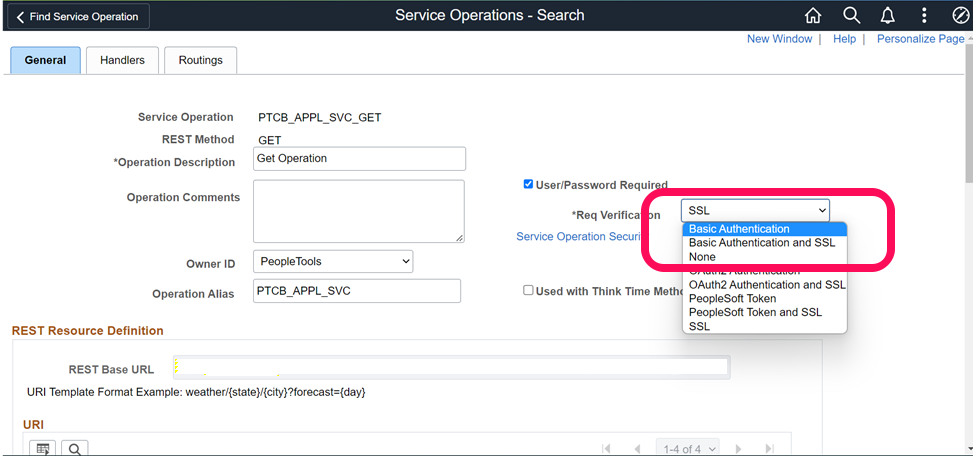
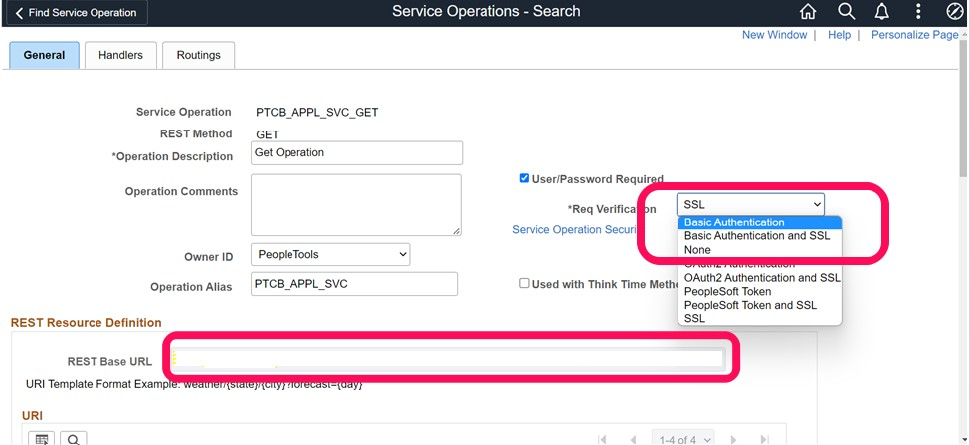
11263 - PeopleSoft PICASO Chatbot Integration with Oracle Digital Assistant (#136)
* QA updates

* fixes

---------

diff --git a/peoplesoft-oda/1setup-oda/setup-oda.md b/peoplesoft-oda/1setup-oda/setup-oda.md
@@ -80,20 +80,20 @@ In this part of the lab, we begin by deploying PeopleSoft PICASO from the Oracle
 
 
 
-## Task 3:  Clone and create a new digital assistant
+## Task 3:  Extend and create a new digital assistant
 
-In this lab, we start by cloning the PICASO digital assistant from PeopleSoft and building a new digital assistant specifically for this task.
+In this lab, we start by extending the existing PICASO digital assistant and building a new digital assistant specifically for this task.
 
-1.  From the previous task, once the PICASO digital assistant pull request is completed, navigate to the digital assistants' tab under development and click on the clone to begin the cloning process.
+1.  From the previous task, once the PICASO digital assistant pull request is completed, navigate to the digital assistants' tab under development and click on the extend to begin the cloning process.
 
-  ![Select the three dots and begin the cloning process](./images/oda-assistant-clone.png " ")
+  ![Select the three dots and begin the extend process](./images/oda-assistant-extend.png " ")
 
-    From the dialog box, click clone to begin the process
+    From the dialog box, click extend to begin the process
 
-  ![Cloning processes started](./images/oda-assistant-clone-start.png " ")
+  ![Extend processes started](./images/oda-assistant-extend-start.png " ")
 
-    PeopleSoft PICASO clone is created
-  ![Cloning processes started](./images/oda-assistant-clone-complete.png " ")
+    PeopleSoft PICASO digital assistant is created
+  ![Extend processes started](./images/oda-assistant-extend-complete.png " ")
 
 ## Task 4:  Create the channel for the skills
 
@@ -131,6 +131,6 @@ You may now **proceed to the next lab.**
 ## Acknowledgements
 * **Authors** - Deepak Kumar M, Principal Cloud Architect
 * **Contributors** - Deepak Kumar M, Principal Cloud Architect
-* **Last Updated By/Date** - Deepak Kumar M, Principal Cloud Architect, October 2022
+* **Last Updated By/Date** - Deepak Kumar M, Principal Cloud Architect, March 2023
 
 

diff --git a/peoplesoft-oda/2configure-psft/configure-psft.md b/peoplesoft-oda/2configure-psft/configure-psft.md
@@ -49,7 +49,17 @@ To configure PeopleSoft with Oracle Digital Assistant, you will:
    On the Roles tab, Update it with below roles and click save
   ![Add the roles as per the screen ](./images/update-roles.png " ")
 
+   For PeopleSoft Financial environment, add the below roles to the VP1 user or user working on the chatbot setup.
 
+   EOCB Client User
+
+   EXCB\_EXPENSE\_INQ
+
+   PTCB\_USER
+
+   PeopleSoft User  
+   
+   ePro Requester Inquiry Bot
 ## Task 2: Uncheck Restricted Services
 
 1. Login to PeopleSoft as an admin user and click on the navigation at the top right corner and then go to PeopleTools >> Integration Broker >> Service Configuration. 
@@ -72,13 +82,15 @@ To configure PeopleSoft with Oracle Digital Assistant, you will:
 
   ![Click the navbar at the top right corner ](./images/psft-service-operation.png " ")
 
-  Search with Service Operation "PTCB\_APP\_SVC"
+  Search with Service Operation "PTCB\_APPL\_SVC"
 
     ![Search with Service Operation  ](./images/psft-service-operation-page.png " ")
   
   Update the req. verification field as "Basic Authentication" instead of "SSL" for both Service Operations "PTCB\_APPL\_SVC_GET" and "PTCB\_APPL\_SVC\_POST"
 
     ![Search with Service Operation  ](./images/psft-service-operation-update.png " ")
+
+    *Note:* Make a note of the masked REST Base URL as this would be required to update the ODA skill configuration page
 
 ## Task 4: Update Application Services Security
 
@@ -136,6 +148,5 @@ You may now **proceed to the next lab.**
 ## Acknowledgements
 * **Authors** - Deepak Kumar M, Principal Cloud Architect
 * **Contributors** - Deepak Kumar M, Principal Cloud Architect
-* **Last Updated By/Date** - Deepak Kumar M, Principal Cloud Architect, October 2022
-
+* **Last Updated By/Date** - Deepak Kumar M, Principal Cloud Architect, March 2023
 

diff --git a/peoplesoft-oda/3skill-update-oda/skill-update-oda.md b/peoplesoft-oda/3skill-update-oda/skill-update-oda.md
@@ -35,11 +35,11 @@ Estimated Time: 15 minutes
 
   ![click on go to skill](./images/skill-update.png " ")
 
-   PSHCMbaseurl: It denotes the base url of application service. Replace with actual server, port and nodename.
+   PSHCMbaseurl: It denotes the base url of application service, this need to be replaced with the Masked REST Base URL from Lab 2, Task3. Also, ODA cannot resolve the hostname, so IP address to be used in place of servername. Below is an example.
 
       ```
       <copy>
-    http://servername:port/PSIGW/RESTListeningConnector/HCM_EMHBVUSZIWE/PTCB_APPL_SVC.v1 
+    http://IP address:port/PSIGW/RESTListeningConnector/HCM_EMHBVUSZIWE/PTCB_APPL_SVC.v1 
       </copy>
       ```
    PSHCMuserid: Set the peoplesoft proxy user who has access to invoke application services. To start with, Let us leave it, as it is (PSFTPROXY).
@@ -61,6 +61,6 @@ You may now **proceed to the next lab.**
 ## Acknowledgements
 * **Authors** - Deepak Kumar M, Principal Cloud Architect
 * **Contributors** - Deepak Kumar M, Principal Cloud Architect
-* **Last Updated By/Date** - Deepak Kumar M, Principal Cloud Architect, October 2022
+* **Last Updated By/Date** - Deepak Kumar M, Principal Cloud Architect, March 2023
 
 

diff --git a/peoplesoft-oda/4test-picaso/test-picaso.md b/peoplesoft-oda/4test-picaso/test-picaso.md
@@ -69,6 +69,6 @@ In this lab, you tested the PeopleSoft PICASO chatbot configured using Oracle Di
 ## Acknowledgements
 * **Authors** - Deepak Kumar M, Principal Cloud Architect
 * **Contributors** - Deepak Kumar M, Principal Cloud Architect
-* **Last Updated By/Date** - Deepak Kumar M, Principal Cloud Architect, October 2022
+* **Last Updated By/Date** - Deepak Kumar M, Principal Cloud Architect, March 2023
 
 

diff --git a/peoplesoft-oda/0introduction/introduction.md b/peoplesoft-oda/0introduction/introduction.md
@@ -88,5 +88,5 @@ The following terms are commonly employed in PeopleSoft cloud operations and are
 ## Acknowledgements
 * **Authors** - Deepak Kumar M, Principal Cloud Architect
 * **Contributors** - Deepak Kumar M, Principal Cloud Architect
-* **Last Updated By/Date** - Deepak Kumar M, Principal Cloud Architect, October 2022
+* **Last Updated By/Date** - Deepak Kumar M, Principal Cloud Architect, March 2023
 
